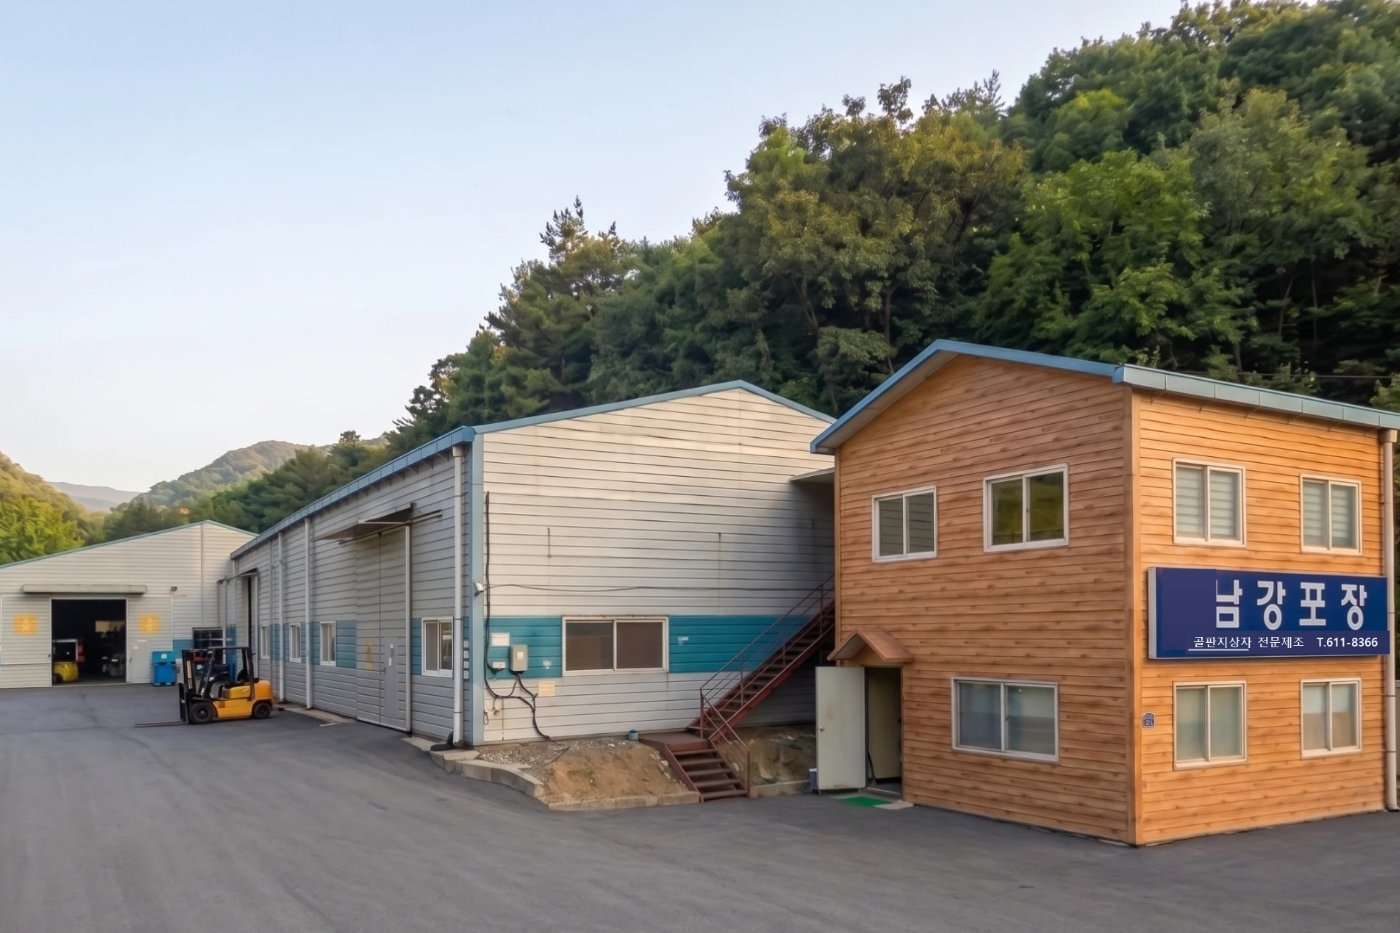
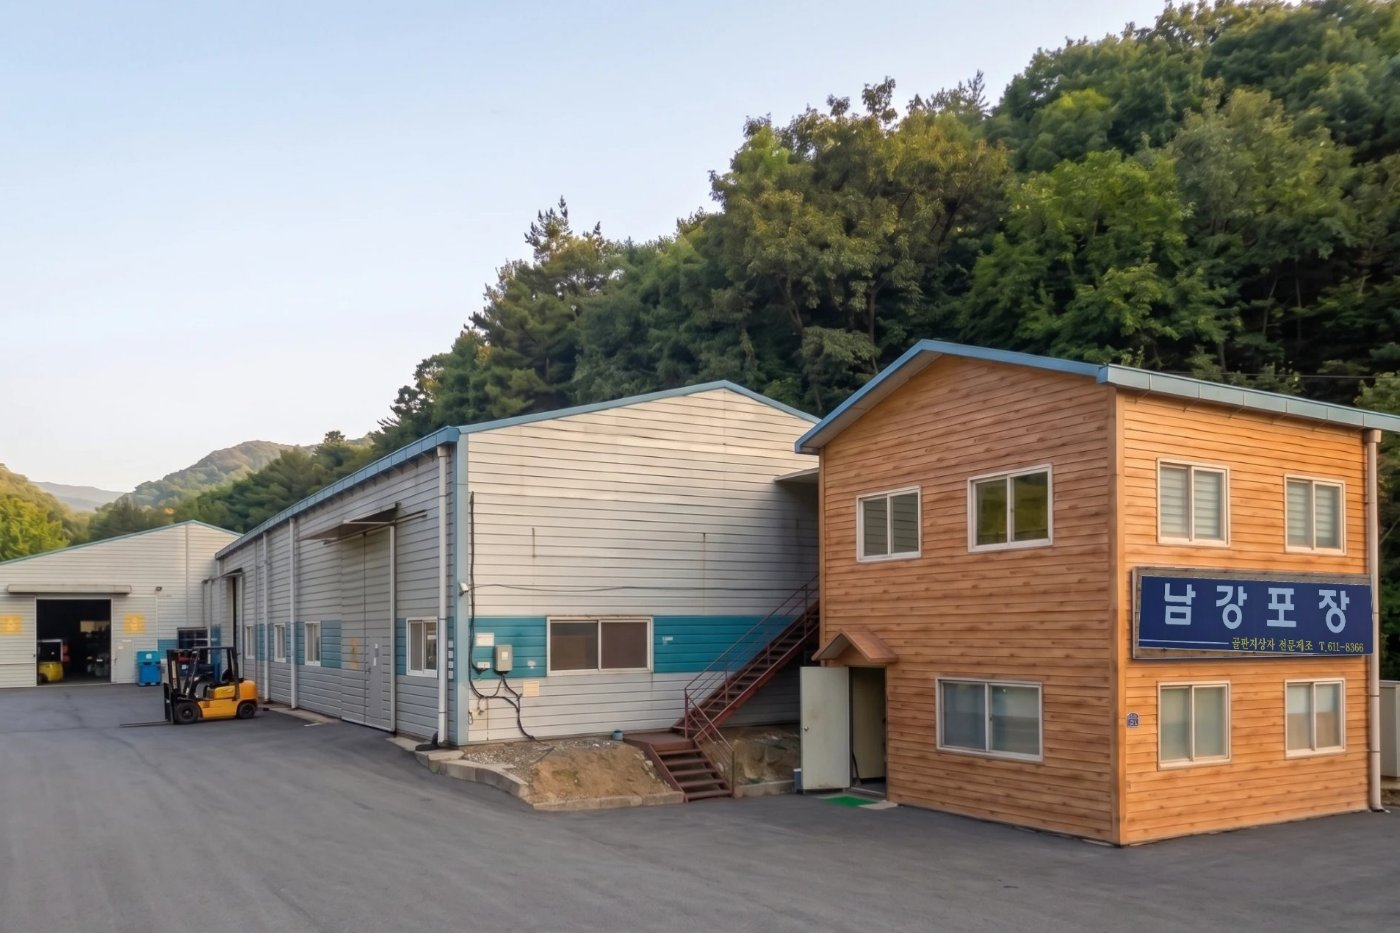
외관 사진: 실제 촬영본의 간판을 원근 맞춰 합성, 간판 안 잘리게 크롭 조정

Changed region(s): [[0.0, 0.0, 1.0, 0.9325]]

diff --git a/contact.html b/contact.html
@@ -22,7 +22,7 @@
   <link rel="preconnect" href="https://fonts.gstatic.com" crossorigin>
   <link href="https://fonts.googleapis.com/css2?family=Montserrat:wght@300;500;600;700;800&display=swap" rel="stylesheet">
   <link rel="stylesheet" href="https://cdn.jsdelivr.net/gh/orioncactus/pretendard@v1.3.9/dist/web/variable/pretendardvariable-dynamic-subset.min.css">
-  <link rel="stylesheet" href="css/style.css?v=2026092230">
+  <link rel="stylesheet" href="css/style.css?v=2026092231">
 </head>
 <body>
 
@@ -438,10 +438,10 @@
     <button type="button" class="float-top" aria-label="맨 위로">TOP</button>
   </div>
 
-  <script src="js/config.js?v=2026092230"></script>
-  <script src="js/main.js?v=2026092230"></script>
-  <script src="js/slots.js?v=2026092230"></script>
-  <script src="js/site-data.js?v=2026092230"></script>
-  <script src="js/quote-form.js?v=2026092230"></script>
+  <script src="js/config.js?v=2026092231"></script>
+  <script src="js/main.js?v=2026092231"></script>
+  <script src="js/slots.js?v=2026092231"></script>
+  <script src="js/site-data.js?v=2026092231"></script>
+  <script src="js/quote-form.js?v=2026092231"></script>
 </body>
 </html>

diff --git a/index.html b/index.html
@@ -22,7 +22,7 @@
   <link rel="preconnect" href="https://fonts.gstatic.com" crossorigin>
   <link href="https://fonts.googleapis.com/css2?family=Montserrat:wght@300;500;600;700;800&display=swap" rel="stylesheet">
   <link rel="stylesheet" href="https://cdn.jsdelivr.net/gh/orioncactus/pretendard@v1.3.9/dist/web/variable/pretendardvariable-dynamic-subset.min.css">
-  <link rel="stylesheet" href="css/style.css?v=2026092230">
+  <link rel="stylesheet" href="css/style.css?v=2026092231">
 
   <script type="application/ld+json">
   {
@@ -423,9 +423,9 @@
     <button type="button" class="float-top" aria-label="맨 위로">TOP</button>
   </div>
 
-  <script src="js/config.js?v=2026092230"></script>
-  <script src="js/main.js?v=2026092230"></script>
-  <script src="js/slots.js?v=2026092230"></script>
-  <script src="js/site-data.js?v=2026092230"></script>
+  <script src="js/config.js?v=2026092231"></script>
+  <script src="js/main.js?v=2026092231"></script>
+  <script src="js/slots.js?v=2026092231"></script>
+  <script src="js/site-data.js?v=2026092231"></script>
 </body>
 </html>

diff --git a/404.html b/404.html
@@ -12,7 +12,7 @@
   <link rel="preconnect" href="https://fonts.gstatic.com" crossorigin>
   <link href="https://fonts.googleapis.com/css2?family=Montserrat:wght@300;500;600;700;800&display=swap" rel="stylesheet">
   <link rel="stylesheet" href="https://cdn.jsdelivr.net/gh/orioncactus/pretendard@v1.3.9/dist/web/variable/pretendardvariable-dynamic-subset.min.css">
-  <link rel="stylesheet" href="/css/style.css?v=2026092230">
+  <link rel="stylesheet" href="/css/style.css?v=2026092231">
 </head>
 <body>
 
@@ -125,9 +125,9 @@
     <button type="button" class="float-top" aria-label="맨 위로">TOP</button>
   </div>
 
-  <script src="/js/config.js?v=2026092230"></script>
-  <script src="/js/main.js?v=2026092230"></script>
-  <script src="/js/slots.js?v=2026092230"></script>
-  <script src="/js/site-data.js?v=2026092230"></script>
+  <script src="/js/config.js?v=2026092231"></script>
+  <script src="/js/main.js?v=2026092231"></script>
+  <script src="/js/slots.js?v=2026092231"></script>
+  <script src="/js/site-data.js?v=2026092231"></script>
 </body>
 </html>

diff --git a/about.html b/about.html
@@ -22,7 +22,7 @@
   <link rel="preconnect" href="https://fonts.gstatic.com" crossorigin>
   <link href="https://fonts.googleapis.com/css2?family=Montserrat:wght@300;500;600;700;800&display=swap" rel="stylesheet">
   <link rel="stylesheet" href="https://cdn.jsdelivr.net/gh/orioncactus/pretendard@v1.3.9/dist/web/variable/pretendardvariable-dynamic-subset.min.css">
-  <link rel="stylesheet" href="css/style.css?v=2026092230">
+  <link rel="stylesheet" href="css/style.css?v=2026092231">
 </head>
 <body>
 
@@ -326,9 +326,9 @@
     <button type="button" class="float-top" aria-label="맨 위로">TOP</button>
   </div>
 
-  <script src="js/config.js?v=2026092230"></script>
-  <script src="js/main.js?v=2026092230"></script>
-  <script src="js/slots.js?v=2026092230"></script>
-  <script src="js/site-data.js?v=2026092230"></script>
+  <script src="js/config.js?v=2026092231"></script>
+  <script src="js/main.js?v=2026092231"></script>
+  <script src="js/slots.js?v=2026092231"></script>
+  <script src="js/site-data.js?v=2026092231"></script>
 </body>
 </html>

diff --git a/careers.html b/careers.html
@@ -22,7 +22,7 @@
   <link rel="preconnect" href="https://fonts.gstatic.com" crossorigin>
   <link href="https://fonts.googleapis.com/css2?family=Montserrat:wght@300;500;600;700;800&display=swap" rel="stylesheet">
   <link rel="stylesheet" href="https://cdn.jsdelivr.net/gh/orioncactus/pretendard@v1.3.9/dist/web/variable/pretendardvariable-dynamic-subset.min.css">
-  <link rel="stylesheet" href="css/style.css?v=2026092230">
+  <link rel="stylesheet" href="css/style.css?v=2026092231">
 </head>
 <body>
 
@@ -245,9 +245,9 @@
     <button type="button" class="float-top" aria-label="맨 위로">TOP</button>
   </div>
 
-  <script src="js/config.js?v=2026092230"></script>
-  <script src="js/main.js?v=2026092230"></script>
-  <script src="js/slots.js?v=2026092230"></script>
-  <script src="js/site-data.js?v=2026092230"></script>
+  <script src="js/config.js?v=2026092231"></script>
+  <script src="js/main.js?v=2026092231"></script>
+  <script src="js/slots.js?v=2026092231"></script>
+  <script src="js/site-data.js?v=2026092231"></script>
 </body>
 </html>

diff --git a/facility.html b/facility.html
@@ -22,7 +22,7 @@
   <link rel="preconnect" href="https://fonts.gstatic.com" crossorigin>
   <link href="https://fonts.googleapis.com/css2?family=Montserrat:wght@300;500;600;700;800&display=swap" rel="stylesheet">
   <link rel="stylesheet" href="https://cdn.jsdelivr.net/gh/orioncactus/pretendard@v1.3.9/dist/web/variable/pretendardvariable-dynamic-subset.min.css">
-  <link rel="stylesheet" href="css/style.css?v=2026092230">
+  <link rel="stylesheet" href="css/style.css?v=2026092231">
 </head>
 <body>
 
@@ -263,9 +263,9 @@
     <button type="button" class="float-top" aria-label="맨 위로">TOP</button>
   </div>
 
-  <script src="js/config.js?v=2026092230"></script>
-  <script src="js/main.js?v=2026092230"></script>
-  <script src="js/slots.js?v=2026092230"></script>
-  <script src="js/site-data.js?v=2026092230"></script>
+  <script src="js/config.js?v=2026092231"></script>
+  <script src="js/main.js?v=2026092231"></script>
+  <script src="js/slots.js?v=2026092231"></script>
+  <script src="js/site-data.js?v=2026092231"></script>
 </body>
 </html>

diff --git a/privacy.html b/privacy.html
@@ -22,7 +22,7 @@
   <link rel="preconnect" href="https://fonts.gstatic.com" crossorigin>
   <link href="https://fonts.googleapis.com/css2?family=Montserrat:wght@300;500;600;700;800&display=swap" rel="stylesheet">
   <link rel="stylesheet" href="https://cdn.jsdelivr.net/gh/orioncactus/pretendard@v1.3.9/dist/web/variable/pretendardvariable-dynamic-subset.min.css">
-  <link rel="stylesheet" href="css/style.css?v=2026092230">
+  <link rel="stylesheet" href="css/style.css?v=2026092231">
 </head>
 <body>
 
@@ -217,9 +217,9 @@
     <button type="button" class="float-top" aria-label="맨 위로">TOP</button>
   </div>
 
-  <script src="js/config.js?v=2026092230"></script>
-  <script src="js/main.js?v=2026092230"></script>
-  <script src="js/slots.js?v=2026092230"></script>
-  <script src="js/site-data.js?v=2026092230"></script>
+  <script src="js/config.js?v=2026092231"></script>
+  <script src="js/main.js?v=2026092231"></script>
+  <script src="js/slots.js?v=2026092231"></script>
+  <script src="js/site-data.js?v=2026092231"></script>
 </body>
 </html>

diff --git a/products.html b/products.html
@@ -22,7 +22,7 @@
   <link rel="preconnect" href="https://fonts.gstatic.com" crossorigin>
   <link href="https://fonts.googleapis.com/css2?family=Montserrat:wght@300;500;600;700;800&display=swap" rel="stylesheet">
   <link rel="stylesheet" href="https://cdn.jsdelivr.net/gh/orioncactus/pretendard@v1.3.9/dist/web/variable/pretendardvariable-dynamic-subset.min.css">
-  <link rel="stylesheet" href="css/style.css?v=2026092230">
+  <link rel="stylesheet" href="css/style.css?v=2026092231">
 </head>
 <body>
 
@@ -284,9 +284,9 @@
     <button type="button" class="float-top" aria-label="맨 위로">TOP</button>
   </div>
 
-  <script src="js/config.js?v=2026092230"></script>
-  <script src="js/main.js?v=2026092230"></script>
-  <script src="js/slots.js?v=2026092230"></script>
-  <script src="js/site-data.js?v=2026092230"></script>
+  <script src="js/config.js?v=2026092231"></script>
+  <script src="js/main.js?v=2026092231"></script>
+  <script src="js/slots.js?v=2026092231"></script>
+  <script src="js/site-data.js?v=2026092231"></script>
 </body>
 </html>

diff --git a/images/CREDITS.md b/images/CREDITS.md
@@ -40,5 +40,5 @@
 
 ## 공장 외관 사진 (2026-09-23 교체)
 `visual-exterior.jpg`, `exterior-wide.jpg` — 원본 `사진원본/29-외관.webp` (사용자 제공, AI로 정리한 버전으로 보임).
-원본 간판이 실제와 달라(없는 로고 마크 + `NANGANG PACKAGING T.631-1188`) 실제 간판대로 고쳤습니다: 로고 마크 제거, 아랫줄 `골판지상자 전문제조   T.611-8366`.
-수정본은 `사진원본/29-외관-간판수정.jpg`. 실제 촬영본은 `사진원본/13.jpg`입니다.
+원본 간판이 실제와 달라(없는 로고 마크 + `NANGANG PACKAGING T.631-1188`), 실제 촬영본(13.jpg)의 간판을 잘라 원근을 맞춰 합성했습니다. 회사명과 전화번호가 잘리지 않도록 크롭 위치도 오른쪽으로 조정했습니다.
+합성본은 `사진원본/29-외관-실제간판.jpg`. 실제 촬영본은 `사진원본/13.jpg`입니다.
